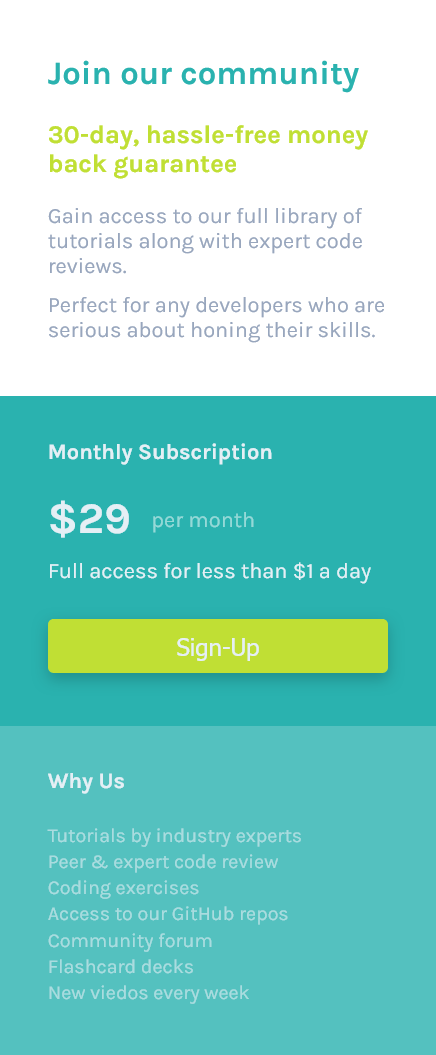
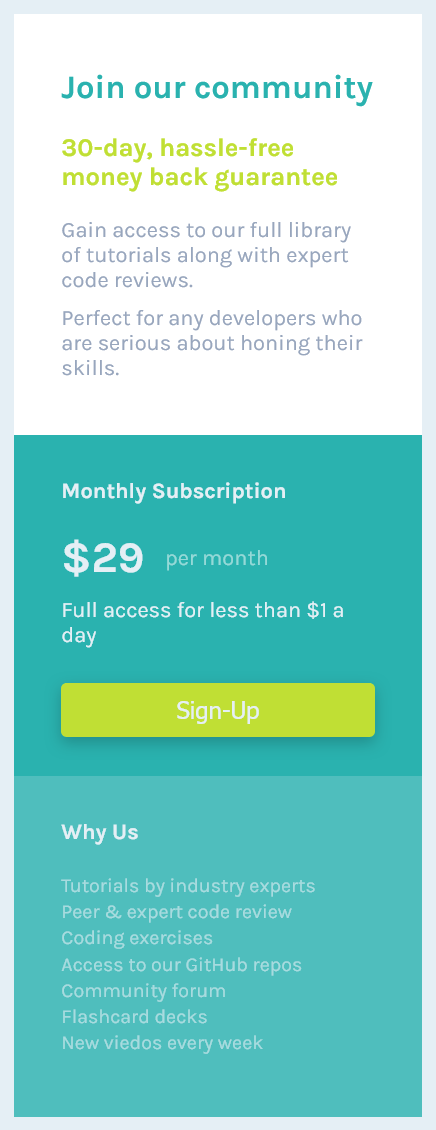
update style.css

diff --git a/style.css b/style.css
@@ -20,6 +20,7 @@ body {
     height: 100vh;
     margin: 0;
     font-family: 'Karla', sans-serif;
+    background-color: var(--light-gray);
 }
 
 .main-container {
@@ -27,6 +28,7 @@ body {
     height: 440px;
     border-radius: 6px;
     box-shadow: 0px 4px 10px rgba(0, 0, 0, 0.4);
+    margin: 0;
 }
 
 .top-part {
@@ -125,13 +127,16 @@ ul {
 
 @media (max-width: 600px) {
     body {
-        display: block;
+        background-color: var(--light-gray);
+        height: auto;
+        padding: 10px;
     }
 
     .main-container {
         display: flex;
         flex-direction: column;
-        width: 100vw;
+        width: auto;
+        height: auto;
         box-shadow: none;
     }
 

diff --git a/README.md b/README.md
@@ -22,9 +22,11 @@ Users should be able to:
 
 ### Screenshot
 
-- Desktop:
+- Desktop:  
 ![](./Screenshot/Screenshot%20Desktop.png)
-- Mobile:   
+- Mobile:    
+
+
 ![](./Screenshot/Screenshot%20Mobile.png)
 
 ### Links
